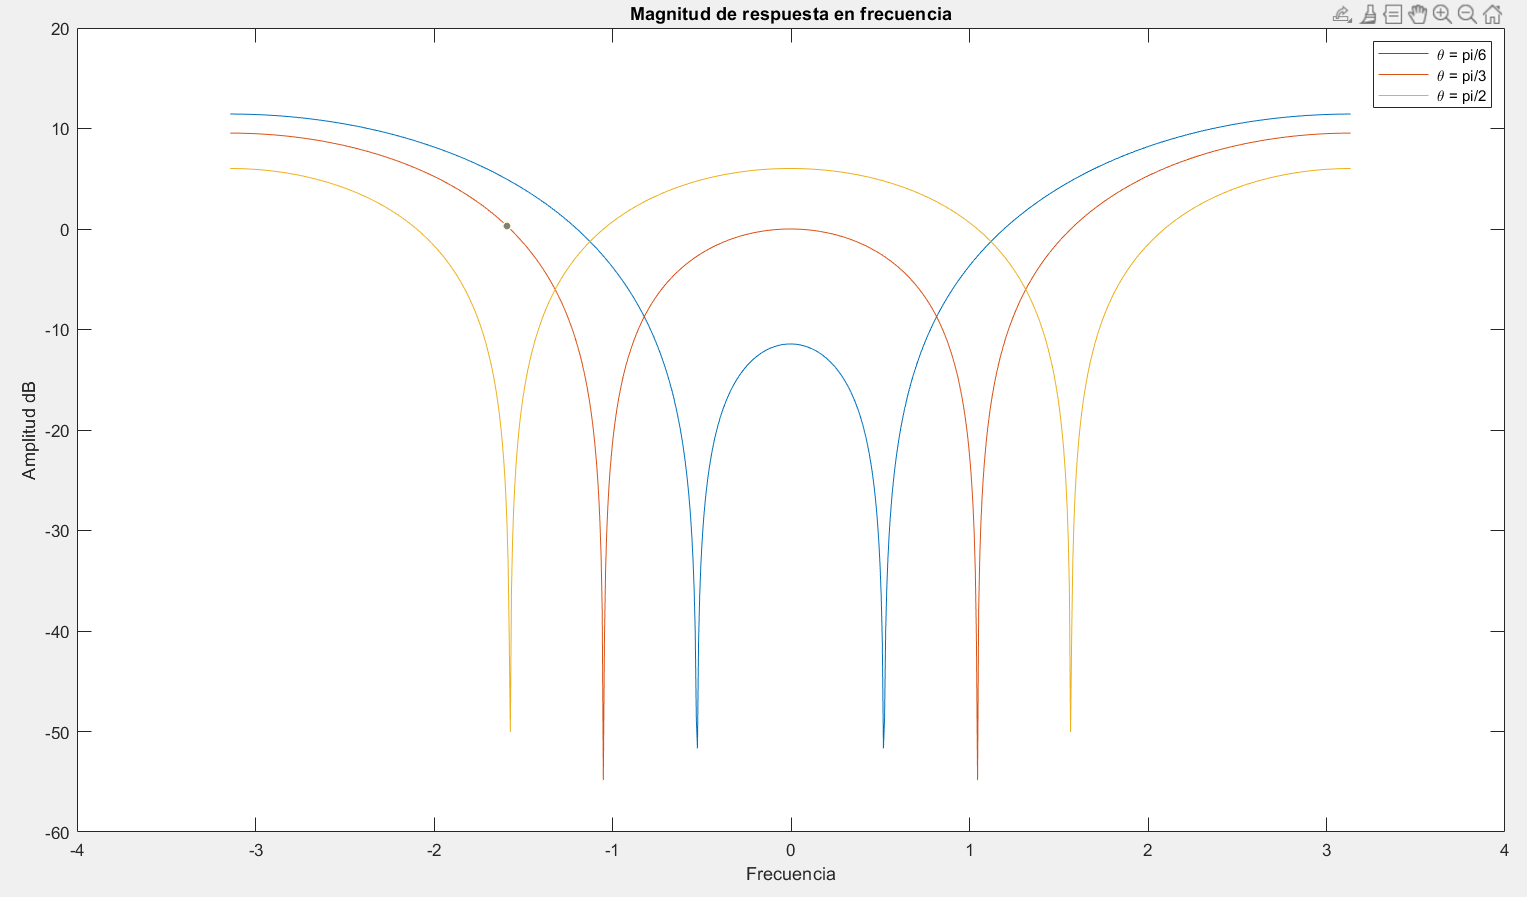
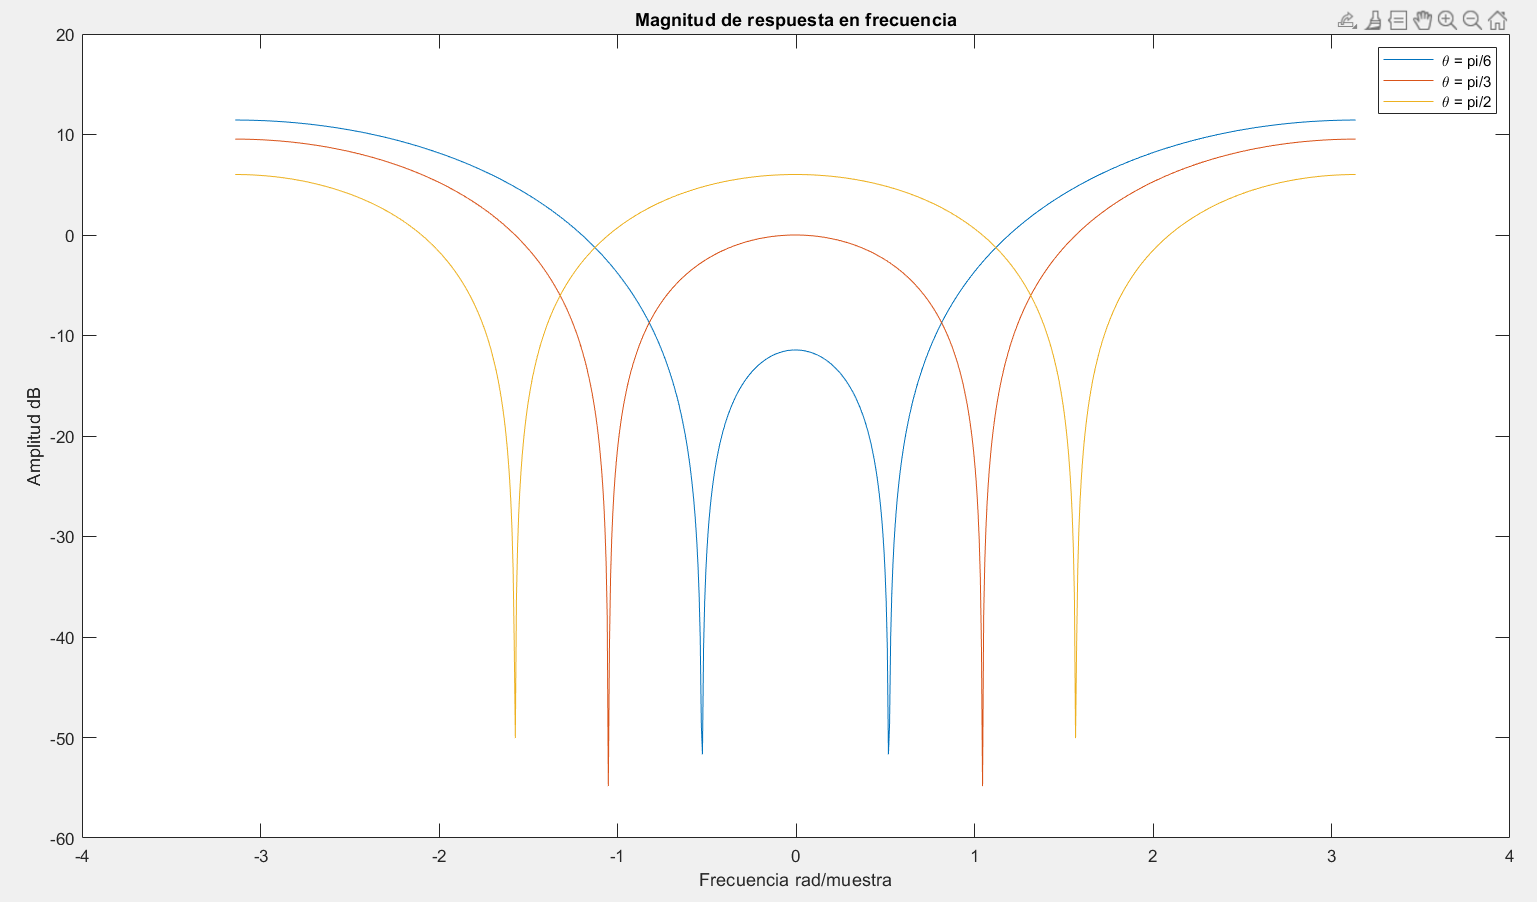
aiuda

diff --git a/lab3dsp_G7_Aguilera_Huidobro/LabP1/scripts/Parte1.m b/lab3dsp_G7_Aguilera_Huidobro/LabP1/scripts/Parte1.m
@@ -1,12 +1,12 @@
 %% 1
 x=[1, zeros([1,1000])];
-theta= 0;
+theta= pi/6;
 y=filtro1(x,theta);
 
 stem(y(1:10))
 xlabel('Muestra')
 ylabel('Amplitud')
-title('Respuesta a Impulso con \theta = 0')
+title('Respuesta a Impulso con \theta = pi/6')
 
 %% 1 resp frec
 y1=filtro1(x,pi/6);
@@ -19,7 +19,7 @@ plot(f_vector,20*log10(abs(fftshift(fft(y2)))));
 hold on
 plot(f_vector,20*log10(abs(fftshift(fft(y3)))));
 legend(' \theta = pi/6',' \theta = pi/3',' \theta = pi/2')
-xlabel('Frecuencia') %??????? q unidad? 
+xlabel('Frecuencia rad/muestra') %??????? q unidad? 
 ylabel('Amplitud dB')
 title('Magnitud de respuesta en frecuencia')
 
@@ -28,6 +28,9 @@ x=[1, zeros([1,1000])];
 theta= pi/6;
 y=filtro2(x,0.3,theta);
 stem(y(1:10))
+xlabel('Muestra')
+ylabel('Amplitud')
+title('Respuesta a Impulso con \theta = pi/6')
 
 %% 2 resp frec
 y1=filtro2(x,pi/3,0.99);
@@ -39,7 +42,10 @@ hold on
 plot(f_vector,20*log10(abs(fftshift(fft(y2)))));
 hold on
 plot(f_vector,20*log10(abs(fftshift(fft(y3)))));
-legend('0.99','0.9','0.7')
+legend('r = 0.99','r = 0.9','r = 0.7')
+xlabel('Frecuencia rad/muestra')
+ylabel('Amplitud dB')
+title('Respuesta a Impulso con  \theta = pi/3 para diferentes r')
 
 %% 3
 load('nspeech.mat');
@@ -49,9 +55,14 @@ fn = 1685/4000 * pi;
 senal_filtrada = filtro1(nspeech,fn);
 subplot 211
 plot(20*log10(abs(fft(nspeech))))
+xlabel('Frecuencia Hz')
+ylabel('Amplitud dB')
+title('nspeech')
 subplot 212
 plot(20*log10(abs(fft(senal_filtrada))))
-
+xlabel('Frecuencia Hz')
+ylabel('Amplitud dB')
+title('nspeech pasado por filtor FIR')
 %% 4
 load('pcm.mat')
 wn = 3146/4000 * pi;
